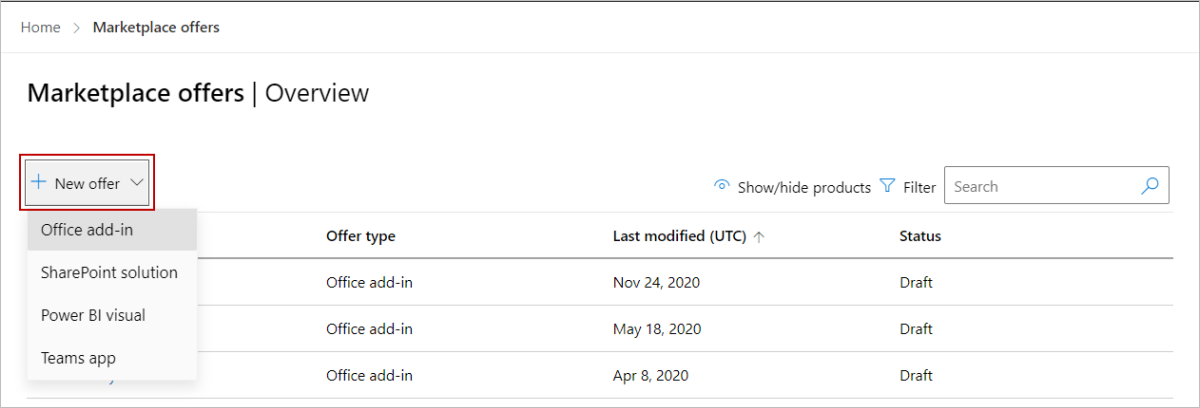
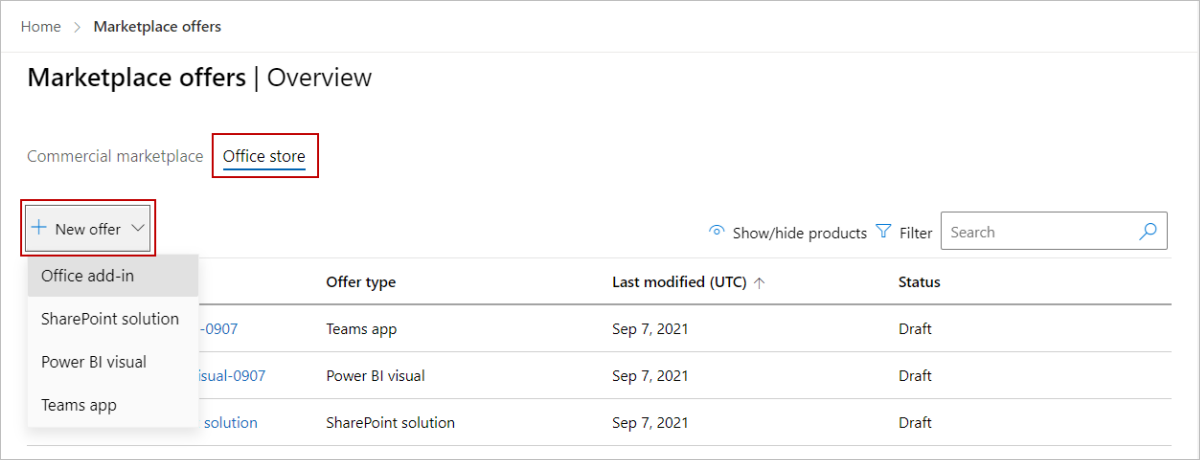
Incorporated Ming Shen's feedback

diff --git a/docs/add-in-submission-guide.md b/docs/add-in-submission-guide.md
@@ -3,7 +3,7 @@ title: Microsoft 365 Store step-by-step submission guide
 description:  Use this step-by-step submission guide to submit your app to the Microsoft stores. 
 localization_priority: Normal
 ms.author: mingshen
-ms.date: 9/13/2021
+ms.date: 9/27/2021
 ---
 
 # Store step-by-step submission guide
@@ -22,6 +22,8 @@ This article is a step-by-step guide that will detail how to submit your app to 
 1. Select the **Marketplace offers** tile.
 
     :::image type="content" source="images/workspaces/marketplace-offers-tile.png" alt-text="Illustrates the product GUID in the URL for an Office app.":::
+
+1. If you see the _Commercial marketplace_ and _Office store_ tabs in the upper-left of the page, select the **Office store** tab.
 
 1. Select **+ New offer** and then select the type of app you want to submit. The example screenshots in this article show an Office Add-in, but the steps apply to Teams apps, SharePoint solutions, and so on.
 
@@ -100,7 +102,7 @@ You will need to upload your manifest file to the grey box on the **Packages** p
 
 When your manifest is uploaded and is correct, you will receive a confirmation and see that manifest checks have passed and that the **Status** column shows **Complete**.
 
-[ ![A completed manifest upload.](./images/add-in-submission-guide/step-4-packages-complete-upload.png) ](./images/add-in-submission-guide/step-4-packages-complete-upload.png#lightbox)
+[ ![A completed manifest upload.](./images/add-in-submission-guide/step-4-packages-complete-upload-workspaces.png) ](./images/add-in-submission-guide/step-4-packages-complete-upload-workspaces.png#lightbox)
 
 #### [Current interface](#tab/old-web-form)
 
@@ -185,7 +187,7 @@ If you don't specify a support document link, you will be prompted to enter one.
 
 ## Step 7: For each language your app is available in, create your detailed store listing
 
-Your store listing is configured on the **Marketplace listings** page. You should include a summary, description, search keywords, icons, screenshots, and an optional video. For details, see [our submission checklist](./checklist.md).
+Your store listing is configured on the **Marketplace listings** page. You should include a summary, description, optional search keywords, icons, screenshots, and an optional video. For details, see [our submission checklist](./checklist.md).
 
 To provide your listing information, select the language you want to configure under the **Language** column.
 
